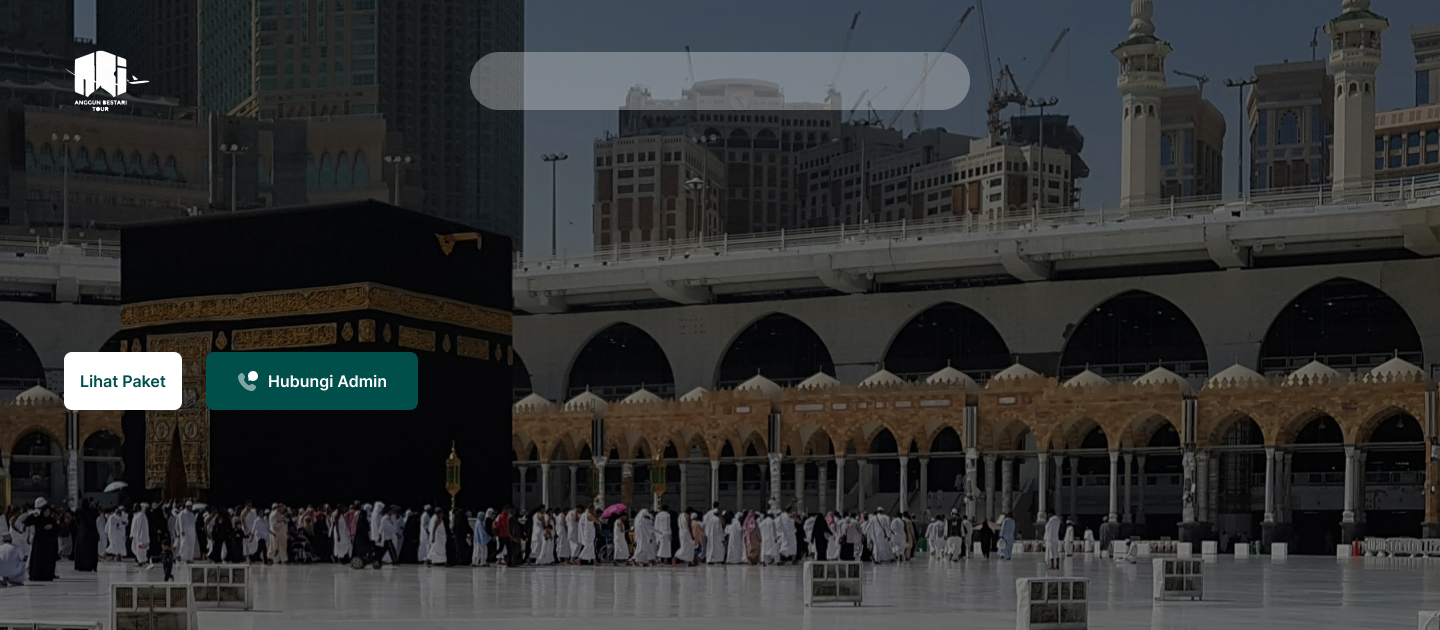
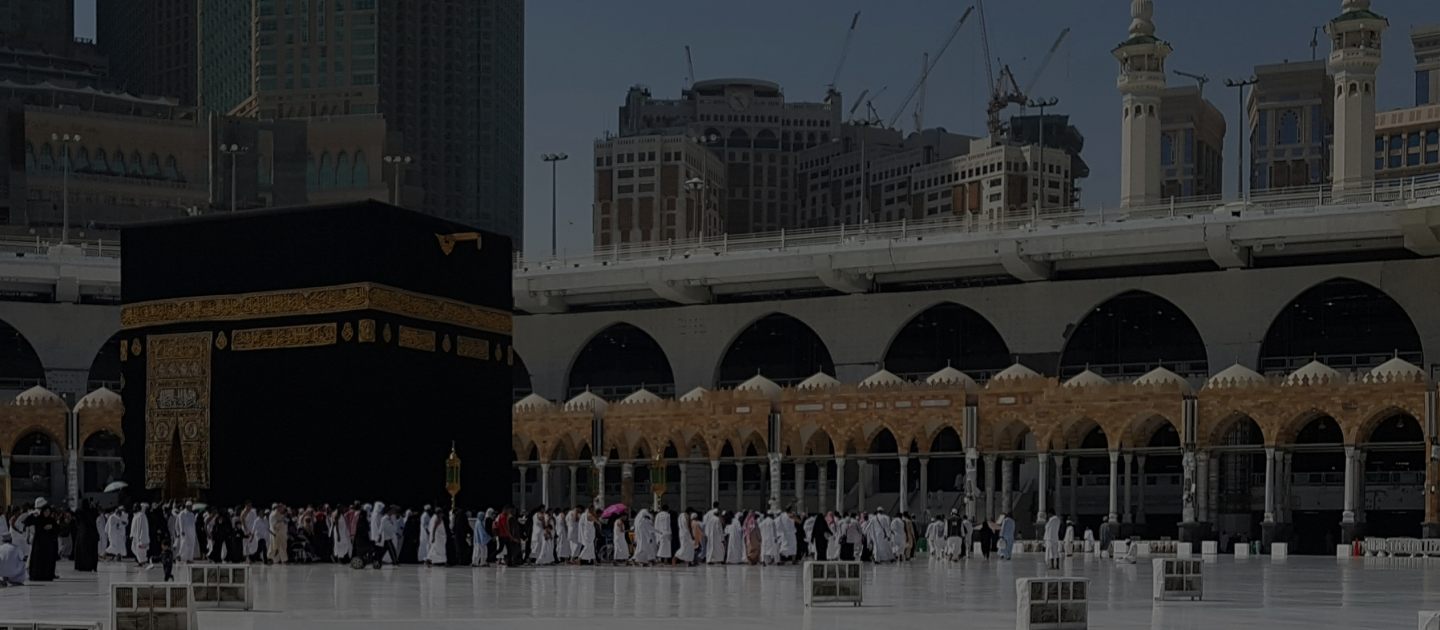
Fourth commit

Changed region(s): [[0.3125, 0.0603, 0.6875, 0.181], [0.0312, 0.5429, 0.3125, 0.6635], [0.0312, 0.0603, 0.0938, 0.181]]

diff --git a/public/css/components/hero/hero-style.css b/public/css/components/hero/hero-style.css
@@ -43,7 +43,7 @@
 
 .hero .nav-bar {
   display: flex;
-  width: 500px;
+  width: 600px;
   align-items: center;
   justify-content: center;
   gap: 36px;

diff --git a/public/css/components/footer/footer-style.css b/public/css/components/footer/footer-style.css
@@ -269,3 +269,7 @@
   flex: 0 0 auto;
   margin-right: -153.5px;
 }
+
+.frame-30, .frame-19, .frame-31 {
+  cursor: pointer;
+}

diff --git a/public/style-beranda.css b/public/style-beranda.css
@@ -24,6 +24,10 @@
   overflow-x: hidden;
 }
 
+#packages-container {
+  width: 100% !important;
+}
+
 
 
 

diff --git a/resources/views/components/packages-umroh.blade.php b/resources/views/components/packages-umroh.blade.php
@@ -6,27 +6,54 @@
     <link rel="stylesheet" href="css/components/packages/packages-umroh-styleguide.css" />
     <link rel="stylesheet" href="css/components/packages/packages-umroh-style.css" />
   </head>
-  {{-- @extends('beranda')
-  @section('packages') --}}
   <body>
     <div class="card-100">
-        <div class="frame-10">
+      <div class="frame-10">
         <div class="frame-11">
-            <div class="text-wrapper-8">Pilih Paket Perjalanan</div>
-            <p class="text-wrapper-9">Dapatkan layanan maksimal, pilih layanan paket dari kami sekarang.</p>
+          <div class="text-wrapper-8">Pilih Paket Perjalanan</div>
+          <p class="text-wrapper-9">
+            Dapatkan layanan maksimal, pilih layanan paket dari kami sekarang.
+          </p>
         </div>
         <div class="frame-12">
-            <div class="nav-bar-3"><div class="text-wrapper-10">Umroh</div></div>
-            <div class="nav-bar-4"><div class="text-wrapper-11" onclick="navigateTo('/packages-haji')">Haji</div></div>
+          <div class="nav-bar-3">
+            <div class="text-wrapper-10">
+              Umroh
+            </div>
+          </div>
+          <div class="nav-bar-4">
+            <div class="text-wrapper-11" onclick="replaceComponent('haji', true)">
+              Haji
+            </div>
+          </div>
         </div>
+      </div>
+      <!-- Container for dynamic packages -->
+      <div id="dynamic-packages">
+        @include('components.pkgcard-sept') <!-- Default content to be shown on page load -->
+      </div>
     </div>
-    {{-- @endsection --}}
 
     <script>
-      function navigateTo(url) {
-        window.location.href = url;
+      function replaceComponent(type, isMainPackage = false) {
+        // Define the base path depending on whether it's a main package (Umroh/Haji) or a subpackage (Sept, Okt, etc.)
+        let basePath = isMainPackage ? '/packages/' : '/components/pkgcard/';
+        
+        // Fetch the new component dynamically
+        fetch(`${basePath}${type}`)
+          .then((response) => response.text())
+          .then((html) => {
+            // If it's a main package, replace the main package container
+            if (isMainPackage) {
+              document.querySelector('#packages-container').innerHTML = html;
+            } else {
+              // Otherwise, replace the internal package card
+              document.querySelector('#dynamic-packages').innerHTML = html;
+            }
+          })
+          .catch((error) => console.error('Error fetching component:', error));
       }
     </script>
-
+    
   </body>
 </html>

diff --git a/resources/views/components/packages-haji.blade.php b/resources/views/components/packages-haji.blade.php
@@ -6,29 +6,44 @@
     <link rel="stylesheet" href="css/components/packages/packages-haji-styleguide.css" />
     <link rel="stylesheet" href="css/components/packages/packages-haji-style.css" />
   </head>
-  {{-- @extends('beranda')
-  @section('packages') --}}
   <body>
     <div class="card-101">
-        <div class="frame-10">
+      <div class="frame-10">
         <div class="frame-11">
-            <div class="text-wrapper-8">Pilih Paket Perjalanan</div>
-            <p class="text-wrapper-9">Dapatkan layanan maksimal, pilih layanan paket dari kami sekarang.</p>
+          <div class="text-wrapper-8">Pilih Paket Perjalanan</div>
+          <p class="text-wrapper-9">
+            Dapatkan layanan maksimal, pilih layanan paket dari kami sekarang.
+          </p>
         </div>
         <div class="frame-12">
-            <div class="nav-bar-4"><div class="text-wrapper-11" onclick="navigateTo('')">Umroh</div></div>
-            <div class="nav-bar-3"><div class="text-wrapper-10">Haji</div></div>
+          <div class="nav-bar-4">
+            <div class="text-wrapper-11" onclick="replaceComponent('umroh')">
+              Umroh
+            </div>
+          </div>
+          <div class="nav-bar-3">
+            <div class="text-wrapper-10">Haji</div>
+          </div>
         </div>
         <img class="image" src="img/Haji Brosur.png" />
-        <div class="nav-bar-5"><div class="text-wrapper-2" onclick="navigateTo('')">Lihat Semua</div></div>
-    </div>
-    {{-- @endsection --}}
+        <div class="nav-bar-5">
+          <div class="text-wrapper-2" onclick="replaceComponent('umroh')">
+            Lihat Semua
+          </div>
+        </div>
+      </div>
 
     <script>
-      function navigateTo(url) {
-        window.location.href = url;
+      function replaceComponent(type) {
+        // Use AJAX to fetch the new component
+        fetch(`/packages/${type}`)
+          .then((response) => response.text())
+          .then((html) => {
+            // Replace the content inside the container without reloading the page
+            document.querySelector('.card-101').innerHTML = html;
+          })
+          .catch((error) => console.error('Error fetching component:', error));
       }
     </script>
-
   </body>
 </html>

diff --git a/resources/views/components/footer.blade.php b/resources/views/components/footer.blade.php
@@ -9,23 +9,40 @@
   <body>
     <div class="card-8">
       <div class="frame-29">
-        <div class="frame-30">
+        <div class="frame-30" onclick="contactInstagram()">
           <img class="img" src="img/ri-instagram-fill-1.svg" />
-          <div class="text-wrapper-22">anggunbestaritour</div>
+          <div class="text-wrapper-22" onclick="contactInstagram()">anggunbestaritour</div>
         </div>
-        <div class="frame-19">
+        <div class="frame-19" onclick="contactAdmin1()">
           <img class="img" src="img/mingcute-whatsapp-fill.svg" />
-          <div class="text-wrapper-22">085259742624</div>
+          <div class="text-wrapper-22" onclick="contactAdmin1()">085259742624</div>
         </div>
-        <div class="frame-19">
+        <div class="frame-19" onclick="contactAdmin2()">
           <img class="img" src="img/mingcute-whatsapp-fill.svg" />
-          <div class="text-wrapper-22">085259742625</div>
+          <div class="text-wrapper-22" onclick="contactAdmin2()">085259742625</div>
         </div>
-        <div class="frame-31">
+        <div class="frame-31" onclick="contactEmail()">
           <img class="img" src="img/ic-round-email.svg" />
-          <div class="text-wrapper-22">pt.anggunbestaritour@gmail.com</div>
+          <div class="text-wrapper-22" onclick="contactEmail()">pt.anggunbestaritour@gmail.com</div>
         </div>
       </div>
     </div>
+    <script>
+      function contactInstagram() {
+        window.location.href = 'https://instagram.com/anggunbestaritour/'; 
+      }
+
+      function contactAdmin1() {
+        window.location.href = 'https://wa.me/085259742624'; 
+      }
+
+      function contactAdmin2() {
+        window.location.href = 'https://wa.me/085259742625'; 
+      }
+
+      function contactEmail() {
+        window.location.href = 'mailto:pt.anggunbestaritour@gmail.com'; 
+      }
+    </script>
   </body>
 </html>

diff --git a/resources/views/components/pkgcard-sept.blade.php b/resources/views/components/pkgcard-sept.blade.php
@@ -11,10 +11,10 @@
         <div class="frame-10">
             <div class="frame-13">
                 <div class="frame-14"><div class="text-wrapper-12">September</div></div>
-                <div class="frame-15"><div class="text-wrapper-13" onclick="navigateTo('')">Oktober</div></div>
-                <div class="frame-15"><div class="text-wrapper-13" onclick="navigateTo('')">November</div></div>
-                <div class="frame-15"><div class="text-wrapper-13" onclick="navigateTo('')">Desember</div></div>
-                <div class="frame-15"><div class="text-wrapper-13" onclick="navigateTo('')">Promo!</div></div>
+                <div class="frame-15"><div class="text-wrapper-13" onclick="replaceComponent('pkgcard-okt')">Oktober</div></div>
+                <div class="frame-15"><div class="text-wrapper-13" onclick="replaceComponent('pkgcard-nov')">November</div></div>
+                <div class="frame-15"><div class="text-wrapper-13" onclick="replaceComponent('pkgcard-des')">Desember</div></div>
+                <div class="frame-15"><div class="text-wrapper-13" onclick="replaceComponent('pkgcard-promo')">Promo!</div></div>
             </div>
         </div>
         <img class="image" src="img/image-12.png" />
@@ -22,10 +22,20 @@
     </div>
 
     <script>
+      function replaceComponent(type) {
+        // Dynamically load the clicked component
+        fetch(`/components/${type}`)
+          .then((response) => response.text())
+          .then((html) => {
+            // Replace the content inside the dynamic packages container
+            document.querySelector('#dynamic-packages').innerHTML = html;
+          })
+          .catch((error) => console.error('Error fetching component:', error));
+      }
+
       function navigateTo(url) {
         window.location.href = url;
       }
     </script>
-
   </body>
 </html>

diff --git a/resources/views/beranda.blade.php b/resources/views/beranda.blade.php
@@ -14,16 +14,13 @@
         <div class="frame">
           @include('components.hero')
           @include('components.services')
-          {{-- @yield('packages') --}}
-          @include('components.packages-umroh')
-          {{-- @include('components.packages-haji') --}}
-          {{-- @include('components.pkgcard-sept') --}}
-          {{-- @include('components.pkgcard-okt') --}}
-          {{-- @include('components.pkgcard-nov') --}}
-          {{-- @include('components.pkgcard-des') --}}
-          {{-- @include('components.pkgcard-promo') --}}
+          
+          <!-- Dynamic Packages Component Container -->
+          <div id="packages-container">
+            @include('components.packages-umroh')
+          </div>
           <br>
-          @include('components.gallery-umrohmaulid-2022-1')
+          {{-- @include('components.gallery-umrohmaulid-2022-1') --}}
           {{-- @include('components.gallery-umrohmaulid-2022-2') --}}
           @include('components.kantorkami')
           @include('components.footer')
@@ -42,6 +39,17 @@
         window.location.href = 'https://wa.me/085259742624'; // WhatsApp link
       }
 
+      // Function to dynamically replace components
+      function replaceComponent(type) {
+        // Use AJAX to fetch the new component
+        fetch(`/packages/${type}`)
+          .then(response => response.text())
+          .then(html => {
+            // Replace the content inside the packages container without reloading the page
+            document.getElementById('packages-container').innerHTML = html;
+          })
+          .catch(error => console.error('Error fetching component:', error));
+      }
     </script>
 
   </body>

diff --git a/routes/web.php b/routes/web.php
@@ -16,9 +16,14 @@ use Illuminate\Support\Facades\Route;
 Route::get('/', function () { return view('beranda');});
 Route::get('/tentang-kami', function () { return view('tentangkami');});
 Route::get('/paket-travel', function () { return view('pakettravel');});
-Route::get('/packages-umroh', function () {
-    return view('components.packages-umroh');
-});
-Route::get('/packages-haji', function () {
-    return view('components.packages-haji');
+Route::get('/galeri-testimoni', function () { return view('galeritesti');});
+
+// Routes for dynamic package components
+Route::get('/packages/{type}', function ($type) {
+    if ($type === 'haji') {
+        return view('components.packages-haji');
+    } elseif ($type === 'umroh') {
+        return view('components.packages-umroh');
+    }
+    abort(404); // If neither, show 404
 });

diff --git a/resources/views/components/hero.blade.php b/resources/views/components/hero.blade.php
@@ -13,6 +13,7 @@
         <div class="text-wrapper-2" onclick="navigateTo('')">Beranda</div>
         <div class="text-wrapper-3" onclick="navigateTo('tentang-kami')">Tentang Kami</div>
         <div class="text-wrapper-3" onclick="navigateTo('paket-travel')">Paket Travel</div>
+        <div class="text-wrapper-3" onclick="navigateTo('galeri-testimoni')">Galeri & Testimoni</div>
       </div>
       <div class="frame-2">
         <div class="hubungi-admin-wrapper">

diff --git a/resources/views/galeritesti.blade.php b/resources/views/galeritesti.blade.php
@@ -1,0 +1,12 @@
+<!DOCTYPE html>
+<html lang="en">
+<head>
+    <meta charset="UTF-8">
+    <meta name="viewport" content="width=device-width, initial-scale=1.0">
+    <meta http-equiv="X-UA-Compatible" content="ie=edge">
+    <title>Anggun Bestari Tour - Galeri</title>
+</head>
+<body>
+    <h1>test</h1>
+</body>
+</html>
